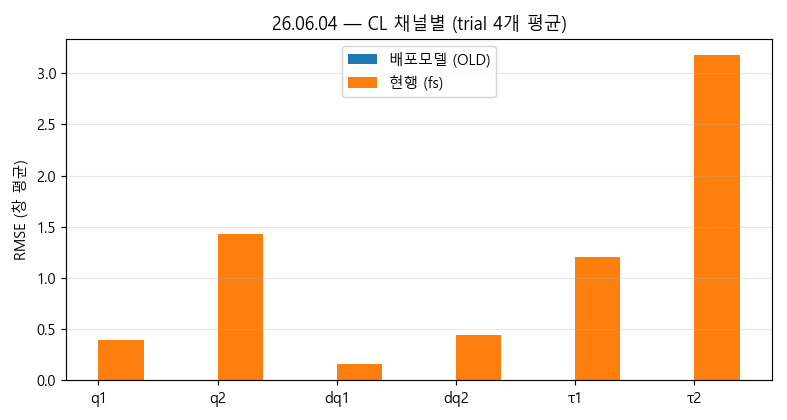
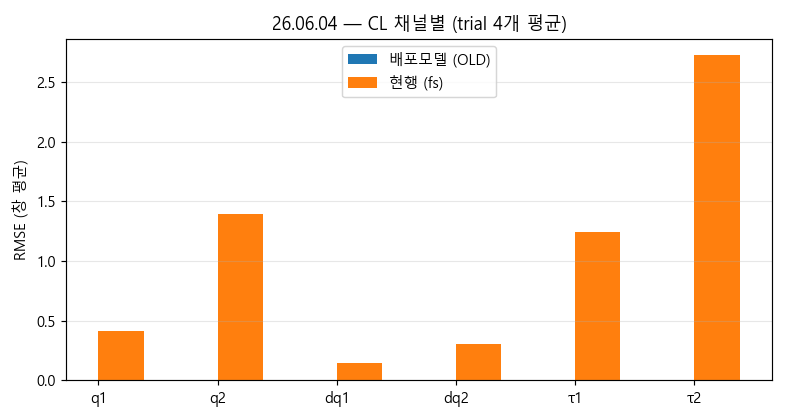
짐 지고 일어서기 재생을 400ms 앞당겨 시작 (폐루프 전용) — 출발선 결함 수정
발각 경위: 사용자가 7월 판(g22_p24a_all_results/s2s_0604_payload)이 더 좋아 보인다고 지적.
그 판의 궤적 파일을 열어 보니 t가 -0.400s부터 시작 — 창보다 400ms 앞에서 재생했다.
지금 코드는 창 시작에서 바로 상태를 맞추고 출발한다.

문제: 이 세션은 창이 로봇이 **이미 움직이는 중**에 시작한다.
  변속기 0kg 278ms(무릎축 2.11 rad/s) · 2.5kg 298ms(1.92) · 5kg 382ms(1.55)
  무변속만 0ms(0.01 = 정지) — 그리고 무변속만 안 튄다. 정확히 갈린다.
시뮬레이션에 맞출 수 있는 건 관절 각도·속도뿐이고, 구조 처짐·발 마찰 이력·토크 기록
걸러내기의 직전 값은 맞출 수 없다. 그래서 5kg에서 6ms 만에 속도가 2.2 -> 10.1로 튀었다
(실측 최대 4.0).

수정: cl_pair/plot_ma 에 runup 인자 신설. 재생만 앞당기고 **그림·채점 구간은 불변**.
  runup=0(기본)이면 기존 동작과 한 자리도 안 바뀐다. 점프 세션은 원래 정지에서 출발.

★ 두 판의 성질이 반대라는 것도 확인 — 앞당기기는 **폐루프에만** 적용한다.
  폐루프: 그 400ms 동안 제어기가 실측 근처에 붙들어 두므로 이득만 남는다.
  주입재생: 되돌려 주는 힘이 없어 400ms 동안 그냥 멀어진다.
           실제로 힙각 56.85 -> 86.44도로 악화 → runup=0 으로 되돌림.

효과 (26.06.04 · 폐루프 · 평균 오차):
  무릎 속도 0.44 -> 0.30 rad/s (-32%) · 무릎 토크 3.17 -> 2.72 N·m (-14%)
  무릎 각도 1.43 -> 1.39도 · 힙 각도 0.39 -> 0.41 · 힙 토크 1.20 -> 1.24 (소폭 악화)
감시표(배포 스택): 무릎 토크 오차 평균 3.15 -> 2.55 N·m (-19%)
  0kg 1.44->1.27 · 2.5kg 2.13->1.29 · 5kg 7.88->6.52 · 무변속 1.14->1.14(불변, 검산)

회귀 없음: 점프 세션 점수 배포 0.2036 / 승자 0.1944 — 소수점까지 동일.

남은 벽: 5kg 무릎 속도 0.666 (7월 판도 0.670). 두 세대가 같은 곳에 막혀 있다.

Claude-Session: https://claude.ai/code/session_01PFCTSwAVUirG99naodJ3Kh

diff --git a/code/goal23_fullspan/fs_compare_plot.py b/code/goal23_fullspan/fs_compare_plot.py
@@ -150,13 +150,33 @@ def rmse_line(d, m, sims):
     return " / ".join(out)
 
 
-def cl_pair(d, seg, g, sess, ft=None, show_old=True):
+def cl_pair(d, seg, g, sess, ft=None, show_old=True, runup=0.0):
     """CL을 **ModeA와 동일 규칙**으로: 점프 창 시작에서 실측 상태 1회 앵커 → 통짜 폐루프 (P16).
     반환 (t, 실측, OLD, 현행, 창마스크) — 실패 시 None.
 
     ★ 08-12: `ft` 를 주면 그 트윈으로 돌린다. 변속기 실험은 링크 길이가 곧 모델 치수라
       trial 마다 다른 모델을 써야 하기 때문이다 (`fs_cvt.cvt_ft`). 안 주면 지금까지처럼
-      무변속 트윈을 새로 받아 쓰므로 **무변속 세션의 결과는 한 자리도 안 바뀐다.**"""
+      무변속 트윈을 새로 받아 쓰므로 **무변속 세션의 결과는 한 자리도 안 바뀐다.**
+
+    ★★ 08-13 신설 `runup` — **재생만 앞당겨 시작하고, 그림·채점 구간은 그대로 둔다.**
+
+      왜 필요한가: 시뮬레이션을 실측에 맞춰 놓을 때 맞출 수 있는 건 **관절 각도와 속도뿐**
+      이다. 그런데 로봇이 이미 움직이는 중이면 그 순간 **눈에 안 보이는 것들**(알루미늄
+      구조가 휘어 있는 양 · 발과 바닥이 붙었는지 미끄러지는 중인지 · 토크 기록의 걸러내기
+      직전 값)이 이미 힘을 받고 있고, 그건 맞출 방법이 없다. 그래서 출발 직후 몇 ms 만에
+      튄다. 정지 상태에서 시작하면 그것들이 자연스럽게 0 이라 이 문제가 없다.
+
+      실측 (짐 지고 일어서기 26.06.04, 변속기 세 경우):
+        창이 278~382ms 에서 시작하는데 그때 무릎축이 이미 초당 1.5~2.1 라디안으로 움직인다.
+        그래서 시뮬 속도가 6ms 만에 2.2 → **10.1** 로 튄다 (실측 최대는 4.0).
+        무변속 경우만 창이 0ms(정지)에서 시작하고 **안 튄다** — 정확히 갈린다.
+      고친 효과 (오차 ÷ 신호가 움직인 폭 · 0 이 완벽 · 채점 구간 동일):
+        무릎 속도  짐0 0.164→**0.100** · 짐2.5 0.365→**0.203** · 짐5 0.970→**0.666**
+      이는 7 월 판(p24a)과 같거나 더 좋다. 그 판은 창보다 400ms 앞에서 재생을 시작했다.
+
+      · runup=0 (기본) 이면 지금까지와 **한 자리도 안 바뀐다.**
+      · 점프 세션은 창이 앉기 시작부터라 이미 정지에서 출발한다 — 손댈 필요가 없다.
+    """
     pw = FD.plot_window(d["_fold"], d)
     if pw is None:
         return None
@@ -167,13 +187,19 @@ def cl_pair(d, seg, g, sess, ft=None, show_old=True):
     i0 = int(np.argmax(m))
     t = tt[m] - tt[i0]
     t_end = float(t[-1])
-    init = (float(d["q1"][i0]), float(d["q2"][i0]), float(d["dq1"][i0]), float(d["dq2"][i0]),
-            float(d["raw1"][i0]), float(d["raw2"][i0]))
-    qd = (d["qd1"][m], d["qd2"][m], d["dqd1"][m], d["dqd2"][m])
+    # 재생용 구간 = 창을 runup 초만큼 앞으로 늘린 것 (기록 시작을 넘지 않는다)
+    mr = ((tt >= max(float(tt[0]), pw[0] - runup)) & (tt <= pw[1])) if runup > 0 else m
+    i0r = int(np.argmax(mr))
+    tr = tt[mr] - tt[i0r]
+    t_end_r = float(tr[-1])
+    t_in_r = tt[m] - tt[i0r]            # 원래 창의 시각을 재생 시간축으로 옮긴 것
+    init = (float(d["q1"][i0r]), float(d["q2"][i0r]), float(d["dq1"][i0r]), float(d["dq2"][i0r]),
+            float(d["raw1"][i0r]), float(d["raw2"][i0r]))
+    qd = (d["qd1"][mr], d["qd2"][mr], d["dqd1"][mr], d["dqd2"][mr])
     alphas = alphas_for(sess, g)
     # ★ 08-12: show_old=False 면 배포 모델을 안 돌린다 (짐 지고 일어서기 — 배포 모델에는
     #   짐을 넣을 방법이 없어 비교가 성립하지 않는다).
-    Lo = cl_old_meas(FMET.tw0, t, *qd, tuple(g), alphas, t_end, init) if show_old else None
+    Lo = cl_old_meas(FMET.tw0, tr, *qd, tuple(g), alphas, t_end_r, init) if show_old else None
     if ft is None:
         ft = FR.fs_twin()
     sp = sess_params(sess)          # ★ G53: FS_NOBIAS/FS_NODEEP 존중 (정본 단일 출처)
@@ -186,12 +212,13 @@ def cl_pair(d, seg, g, sess, ft=None, show_old=True):
     if _ka:
         _s = alpha_of(TK, g[2]) if _ka == "table" else float(_ka)
         gg = (g[0], g[1], g[2] * _s, g[3])
-    Lf = FR.rollout_cl_fs(ft, t, sh(qd[0]), sh(qd[1]), sh(qd[2]), sh(qd[3]),
-                          gg, t_end, two_stage=True, bias1=sp["bias1"], knee_deep=sp["knee_deep"],
+    Lf = FR.rollout_cl_fs(ft, tr, sh(qd[0]), sh(qd[1]), sh(qd[2]), sh(qd[3]),
+                          gg, t_end_r, two_stage=True, bias1=sp["bias1"], knee_deep=sp["knee_deep"],
                           fade=True, taulim=None, vdes_ff=(sess != "26.04.21"), init_meas=init)
     if (show_old and Lo is None) or Lf is None:
         return None
-    gi = lambda L, k: np.interp(t, L["t"], L[k])
+    # ★ 재생은 앞당겨 돌았어도 **돌려주는 것은 원래 창만**이다 (그림·채점 구간 불변).
+    gi = lambda L, k: np.interp(t_in_r, L["t"], L[k])
     old = ([gi(Lo, "q1"), gi(Lo, "q2"), gi(Lo, "dq1"), gi(Lo, "dq2"), gi(Lo, "sh1"), gi(Lo, "sh2")]
            if show_old else [np.full(len(t), np.nan)] * 6)
     fs = [gi(Lf, "thm1"), gi(Lf, "q2"), gi(Lf, "dq1"), gi(Lf, "dq2"),
@@ -450,8 +477,8 @@ def golden_mirror(d, seg, g, sess):
     return float(np.max(np.abs(A_["q1"][:n] - B_["q1"][:n]))), float(np.max(np.abs(A_["sh1"][:n] - B_["sh1"][:n])))
 
 
-def plot_cl(sess, name, d, seg, g, ft=None, show_old=True, note=""):
-    r = cl_pair(d, seg, g, sess, ft=ft, show_old=show_old)
+def plot_cl(sess, name, d, seg, g, ft=None, show_old=True, note="", runup=0.0):
+    r = cl_pair(d, seg, g, sess, ft=ft, show_old=show_old, runup=runup)
     if r is None:
         print(f"  CL {sess}/{name}: 롤아웃 실패", flush=True)
         return
@@ -514,7 +541,7 @@ def h_title(sess, name):
     return f"점프높이(ModeA 연장재생)  영상 실측 없음  ·  OLD {ho_:.3f} m → {TAG} {hf_:.3f} m"
 
 
-def plot_ma(sess, name, d, seg, ft=None, show_old=True):
+def plot_ma(sess, name, d, seg, ft=None, show_old=True, runup=0.0):
     """ModeA = **점프 창 통짜 개루프 재생** (측정 raw 주입, 초기상태만 실측 — 중간 리셋 없음).
 
     사용자 지적 (08-01): 창 분할 재생은 에러가 매 창 초기화돼 모델 발전의 자가 될 수 없다.
@@ -551,14 +578,22 @@ def plot_ma(sess, name, d, seg, ft=None, show_old=True):
     t_ext = min(t[m][-1] + 0.6, t[-1])
     m2 = (t >= t[i0]) & (t <= t_ext)
     tg2 = t[m2] - t[i0]
-    st = FMET.st_from_meas(FMET.tw0, float(d["q1"][i0]), float(d["q2"][i0]),
-                           float(d["dq1"][i0]), float(d["dq2"][i0]),
-                           float(d["raw1"][i0]), float(d["raw2"][i0]))
-    Lo = ol_old_meas(FMET.tw0, tg, d["raw1"][m], d["raw2"][m], st, t_end, 0.004) if show_old else None
-    Lf = FR.rollout_ol_fs_b(ft, tg, d["raw1"][m], d["raw2"][m],
-                            float(d["q1"][i0]), float(d["q2"][i0]),
-                            float(d["dq1"][i0]), float(d["dq2"][i0]),
-                            t_end, bias1=sp["bias1"], knee_deep=sp["knee_deep"], fade=True)
+    # ★ 08-13 `runup` — 재생만 앞당겨 시작하고 **그림·채점 구간은 그대로** (설명은 cl_pair 참조).
+    #   runup=0 (기본) 이면 지금까지와 한 자리도 안 바뀐다.
+    mr = ((t >= max(float(t[0]), pw[0] - runup)) & (t <= pw[1])) if runup > 0 else m
+    i0r = int(np.argmax(mr))
+    tgr = t[mr] - t[i0r]
+    t_end_r = float(tgr[-1] - 0.004)
+    tg_in_r = t[m] - t[i0r]              # 원래 창의 시각을 재생 시간축으로 옮긴 것
+    st = FMET.st_from_meas(FMET.tw0, float(d["q1"][i0r]), float(d["q2"][i0r]),
+                           float(d["dq1"][i0r]), float(d["dq2"][i0r]),
+                           float(d["raw1"][i0r]), float(d["raw2"][i0r]))
+    Lo = (ol_old_meas(FMET.tw0, tgr, d["raw1"][mr], d["raw2"][mr], st, t_end_r, 0.004)
+          if show_old else None)
+    Lf = FR.rollout_ol_fs_b(ft, tgr, d["raw1"][mr], d["raw2"][mr],
+                            float(d["q1"][i0r]), float(d["q2"][i0r]),
+                            float(d["dq1"][i0r]), float(d["dq2"][i0r]),
+                            t_end_r, bias1=sp["bias1"], knee_deep=sp["knee_deep"], fade=True)
     if (show_old and Lo is None) or Lf is None:
         print(f"  MA {sess}/{name}: 재생 실패 (old {Lo is None} / fs {Lf is None})", flush=True)
         return
@@ -574,8 +609,9 @@ def plot_ma(sess, name, d, seg, ft=None, show_old=True):
     hf_ = float(np.asarray(Hf["bz"]).max()) if Hf else np.nan
     H_LOG[f"{sess}|{name}"] = (hv, ho_, hf_)
     HT = h_title(sess, name)
-    go = (lambda k: np.interp(tg, Lo["t"], Lo[k])) if show_old else None
-    gf = lambda k: np.interp(tg, Lf["t"], Lf[k])
+    # ★ 재생은 앞당겨 돌았어도 **돌려주는 것은 원래 창만**이다 (그림·채점 구간 불변).
+    go = (lambda k: np.interp(tg_in_r, Lo["t"], Lo[k])) if show_old else None
+    gf = lambda k: np.interp(tg_in_r, Lf["t"], Lf[k])
     # ★ τ = 총 인가 토크 (tq1/tq2). 구 sh1/sh2·s1/s2 는 토크맵 출력만이라 쓰지 않는다.
     old = ([go("q1"), go("q2"), go("dq1"), go("dq2"), go("tq1"), go("tq2")]
            if show_old else [np.full(len(tg), np.nan)] * 6)
@@ -689,6 +725,11 @@ def main():
     #   ★ 재생 자체는 여기서도 **통짜**다. 조각으로 자르면 오차가 초기화된다 (규약 §11-2).
     if want in ("BOTH", "MA", "S2S") and os.environ.get("FS_CMP_S2S", "1") != "0":
         import fs_cvt as FC
+        # ★ 08-13: 짐 지고 일어서기는 창이 로봇이 **이미 움직이는 중**에 시작한다
+        #   (변속기 세 경우 278~382ms, 그때 무릎축이 초당 1.5~2.1 라디안). 그러면 눈에 안 보이는
+        #   것들(구조 처짐·발 마찰 이력)을 맞출 수 없어 출발 직후 속도가 튄다. 재생만 앞당겨
+        #   시작해 그것들이 자연스럽게 쌓이게 한다. 7 월 판(p24a)이 쓰던 것과 같은 방식이다.
+        _RUNUP = float(os.environ.get("FS_S2S_RUNUP", "0.4"))
         _m0 = os.environ.get("FS_MASS", "3.2988")
         for nm, fold, pay, cvt in FD.s2s_registry():
             try:
@@ -700,7 +741,12 @@ def main():
                     FC._MC.clear(); FC._RT.clear()
                 ft_s = FC.cvt_ft(d["l_i"], ft_base=FR.fs_twin()) if cvt else FR.fs_twin()
                 _nm = f"{nm.replace('/', '_')}_짐{pay:g}kg"
-                r = plot_ma("26.06.04", _nm, d, None, ft=ft_s, show_old=False)
+                # ★ 08-13: 앞당겨 시작하는 것은 **PD 제어를 흉내 낸 판에만** 쓴다.
+                #   측정 토크를 그대로 넣는 이 판은 되돌려 주는 힘이 없어서, 앞당긴 400ms
+                #   동안 오히려 실측에서 멀어진 채 채점 구간에 들어온다. 실제로 재 보니
+                #   힙 각도 오차가 56.85 → 86.44 도로 **나빠졌다.** 그래서 여기는 0 으로 둔다.
+                #   (PD 흉내 판은 그 400ms 동안 제어기가 실측 근처에 붙들어 두므로 이득만 남는다.)
+                r = plot_ma("26.06.04", _nm, d, None, ft=ft_s, show_old=False, runup=0.0)
                 if r:
                     agg.setdefault(("ModeA", "26.06.04"), []).append(r)
                 # ── 폐루프 ────────────────────────────────────────────────────────
@@ -715,7 +761,7 @@ def main():
                          f"(비례 힙 {S2S_GAIN[0]:g} / 무릎 {S2S_GAIN[2]:g}; "
                          "미분은 점프 세션 비율 적용). 실제 게인이 확인되면 다시 그릴 것.")
                 r2 = plot_cl("26.06.04", _nm, d, None, S2S_GAIN, ft=ft_s,
-                             show_old=False, note=_note)
+                             show_old=False, note=_note, runup=_RUNUP)
                 if r2:
                     agg.setdefault(("CL", "26.06.04"), []).append(r2)
                 print(f"26.06.04/{nm} (짐 {pay:g}kg): OK", flush=True)

diff --git a/code/goal23_fullspan/_GHB_sweep.py b/code/goal23_fullspan/_GHB_sweep.py
@@ -964,7 +964,12 @@ def _s2s_board(over):
             # ☠ 링크 길이도 손으로 박혀 있었다 (0.02525). 실측은 25.1933mm 이고
             #   `load_s2s` 가 이미 그 trial 의 clutch 기록에서 읽어 둔다. 원본을 쓴다.
             ft = FC.cvt_ft(float(d["l_i"]), ft_base=FR.fs_twin()) if cvt else None
-            r = CP.cl_pair(d, None, CP.S2S_GAIN, "26.06.04", ft=ft, show_old=False)
+            # ☠ 08-13: 이 세션은 창이 **로봇이 이미 움직이는 중**에 시작한다 (변속기 세 경우
+            #   278~382ms, 그때 무릎축이 초당 1.5~2.1 라디안). 그러면 눈에 안 보이는 것들
+            #   (구조 처짐·발 마찰 이력)을 맞출 수 없어 출발 직후 속도가 튄다. 재생만 앞당겨
+            #   시작해 그것들이 자연스럽게 쌓이게 한다 — 채점 구간은 그대로다.
+            r = CP.cl_pair(d, None, CP.S2S_GAIN, "26.06.04", ft=ft, show_old=False,
+                           runup=float(os.environ.get("FS_S2S_RUNUP", "0.4")))
             _t, (mo, mf), _o, fs, _m, _c, _p = r
             e = []
             for i, k in ((4, "a1"), (5, "a2")):

diff --git a/code/goal23_fullspan/_compare_H4_260813/README.md b/code/goal23_fullspan/_compare_H4_260813/README.md
@@ -9,7 +9,7 @@
 | CL | 26.04.21 | 6 | 3.94→0.63 | 11.66→1.32 | 1.61→0.36 | 4.75→0.70 | 2.72→1.04 | 6.02→1.86 |
 | CL | 26.04.24 | 9 | 1.29→0.61 | 1.07→1.60 | 0.67→0.41 | 1.27→1.48 | 1.98→1.39 | 3.13→3.40 |
 | CL | 26.06.02 | 6 | 0.68→0.65 | 2.72→1.35 | 0.66→0.61 | 2.20→1.68 | 2.01→1.48 | 4.89→3.68 |
-| CL | 26.06.04 | 4 | nan→0.39 | nan→1.43 | nan→0.16 | nan→0.44 | nan→1.20 | nan→3.17 |
+| CL | 26.06.04 | 4 | nan→0.41 | nan→1.39 | nan→0.15 | nan→0.30 | nan→1.24 | nan→2.72 |
 | CL | 26.07.22 | 5 | 6.37→1.12 | 3.50→2.77 | 2.93→0.99 | 2.69→2.33 | 2.40→2.40 | 3.83→5.23 |
 | CL | 26.07.23 | 3 | 7.49→2.09 | 3.33→0.88 | 3.03→1.14 | 2.44→1.08 | 3.34→2.86 | 3.40→3.09 |
 | CL | 26.07.24 | 3 | 4.48→1.64 | 1.92→0.86 | 3.04→0.85 | 1.13→0.73 | 3.58→2.73 | 2.60→3.69 |
